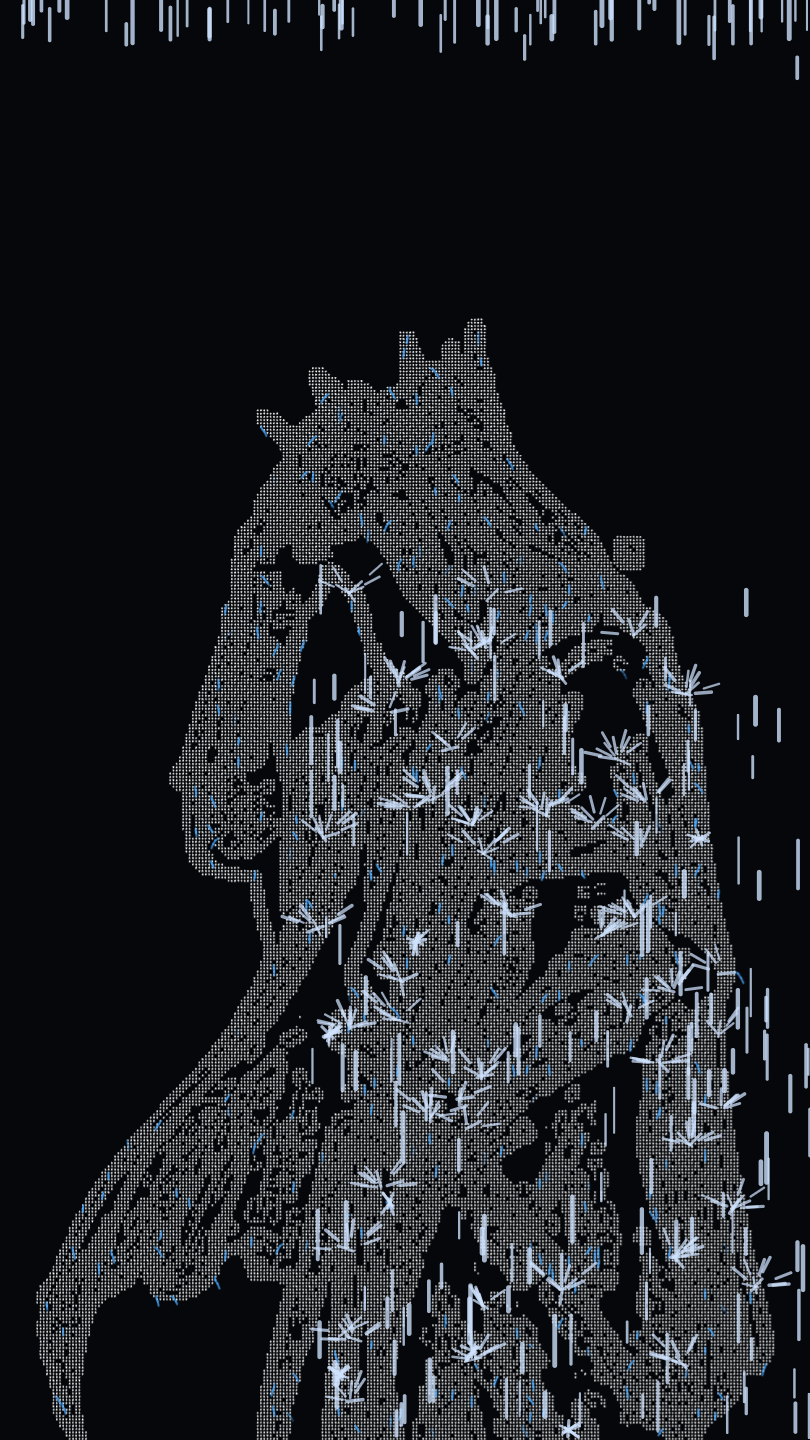
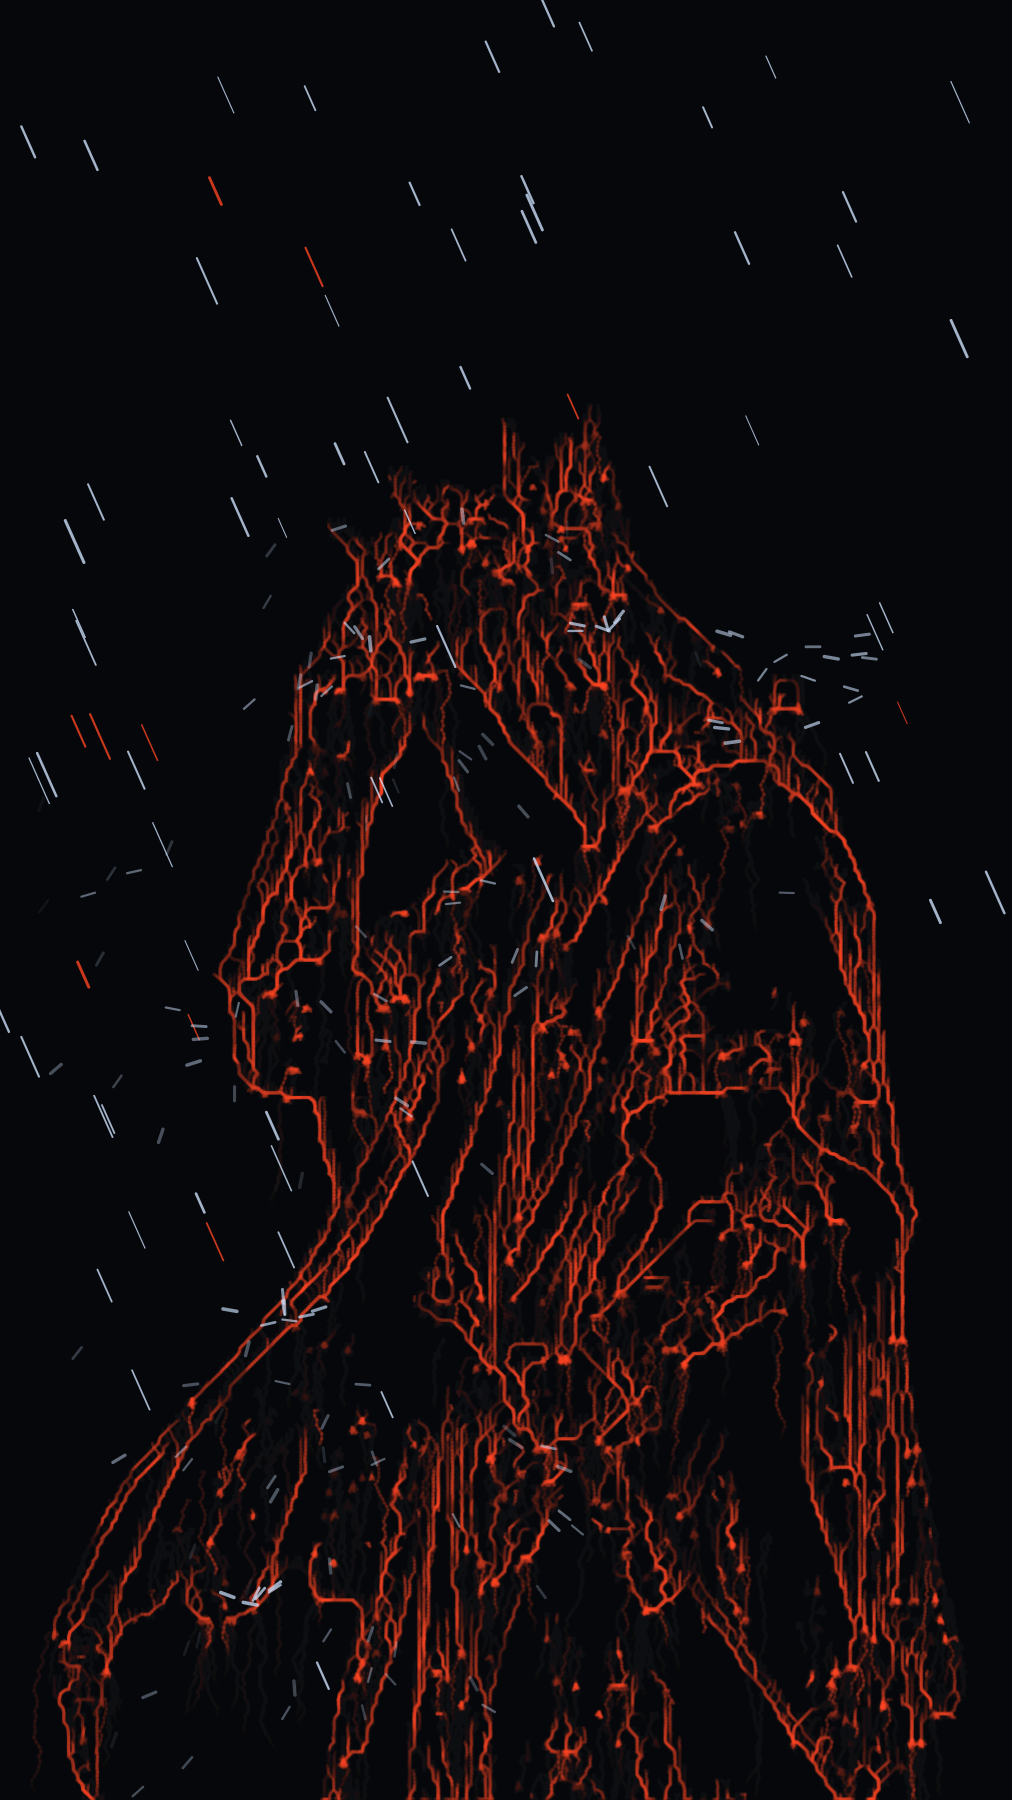
Neue Default-Einstellungen (roter Fluss-Look) + Hero-Screenshot aktualisiert

diff --git a/index.html b/index.html
@@ -184,37 +184,37 @@
 
         <label title="Auflösung der Kantenberechnung. Fein = mehr Detail, grob = nur große Formen.">
           <span class="head">Rasterfeinheit<span class="val" data-for="rasterFeinheit"></span></span>
-          <input type="range" id="rasterFeinheit" min="40" max="600" value="250" data-edge />
+          <input type="range" id="rasterFeinheit" min="40" max="600" value="214" data-edge />
         </label>
 
         <label title="Ab welcher Kontraststärke etwas als Kante zählt. Hoch = nur Silhouette, niedrig = viele Details.">
           <span class="head">Schwellwert<span class="val" data-for="schwellwert"></span></span>
-          <input type="range" id="schwellwert" min="0" max="255" value="60" data-edge />
+          <input type="range" id="schwellwert" min="0" max="255" value="188" data-edge />
         </label>
 
         <label title="Weichzeichnung vor der Erkennung. Höher = weniger Rauschen, ruhigere Kanten.">
           <span class="head">Weichzeichnung<span class="val" data-for="weichzeichnung"></span></span>
-          <input type="range" id="weichzeichnung" min="0" max="5" step="0.1" value="1" data-edge />
+          <input type="range" id="weichzeichnung" min="0" max="5" step="0.1" value="0.6" data-edge />
         </label>
 
         <label title="Verstärkt oder dämpft die erkannte Kantenstärke (Gain). Holt feine Kanten hervor.">
           <span class="head">Kanten-Verstärkung<span class="val" data-for="verstaerkung"></span></span>
-          <input type="range" id="verstaerkung" min="0.2" max="5" step="0.1" value="1" data-edge />
+          <input type="range" id="verstaerkung" min="0.2" max="5" step="0.1" value="0.7" data-edge />
         </label>
 
         <label title="Größe der Rasterpunkte/-vierecke als Anteil der Zelle. 100 % = Vierecke füllen die Zelle lückenlos (Mosaik).">
           <span class="head">Rastergröße (%)<span class="val" data-for="rasterGroesse"></span></span>
-          <input type="range" id="rasterGroesse" min="0" max="100" value="60" data-edge />
+          <input type="range" id="rasterGroesse" min="0" max="100" value="88" data-edge />
         </label>
 
         <label class="row" title="Rasterform: aus = runde Punkte, an = Vierecke. Beide ohne Kontur (nur Füllung).">
           Vierecke
-          <input type="checkbox" id="rasterViereck" data-edge />
+          <input type="checkbox" id="rasterViereck" checked data-edge />
         </label>
 
         <label class="row" title="An = jede Zelle bekommt eine leicht zufällige Größe (körniger, „random“ Look). Aus = alle Formen exakt gleich groß.">
           Zufällige Größe
-          <input type="checkbox" id="rasterRandom" data-edge />
+          <input type="checkbox" id="rasterRandom" checked data-edge />
         </label>
 
         <label title="Transparenz der Kantenlinien. Niedrig = zart, hoch = kräftig.">
@@ -252,7 +252,7 @@
           <input type="color" id="farbeBg" value="#05070a" data-edge />
         </label>
       </details>
-      <input type="checkbox" id="zeigeKanten" class="eye-box" checked />
+      <input type="checkbox" id="zeigeKanten" class="eye-box" />
       <label class="eye" for="zeigeKanten" title="Kanten ein-/ausblenden"></label>
     </div>
 
@@ -262,15 +262,15 @@
 
         <label title="Wie viele Tropfen gleichzeitig auf dem Bildschirm sind (Dichte des Regens).">
           <span class="head">Menge<span class="val" data-for="regenMenge"></span></span>
-          <input type="range" id="regenMenge" min="0" max="1000" value="250" />
+          <input type="range" id="regenMenge" min="0" max="1000" value="75" />
         </label>
 
         <label title="Bereich der Tropfen-Dicke: jeder Tropfen bekommt zufällig eine Dicke zwischen Min und Max.">
           <span class="head">Tropfendicke<span class="val" data-for="dickeMin dickeMax"></span></span>
           <div class="dualslider">
             <div class="fill"></div>
-            <input type="range" id="dickeMin" min="0.5" max="8" step="0.5" value="1" />
-            <input type="range" id="dickeMax" min="0.5" max="8" step="0.5" value="2.5" />
+            <input type="range" id="dickeMin" min="0.5" max="8" step="0.5" value="0.5" />
+            <input type="range" id="dickeMax" min="0.5" max="8" step="0.5" value="1.5" />
           </div>
         </label>
 
@@ -295,7 +295,7 @@
 
         <label title="Neigung der Regenstreifen (in Grad). Alle Streifen kommen parallel aus derselben Richtung — unabhängig von der Geschwindigkeit.">
           <span class="head">Neigung<span class="val" data-for="neigung"></span></span>
-          <input type="range" id="neigung" min="-60" max="60" value="0" />
+          <input type="range" id="neigung" min="-60" max="60" value="24" />
         </label>
 
         <label title="Transparenz der Tropfen. Niedrig = zart, hoch = kräftig.">
@@ -310,12 +310,12 @@
 
         <label title="Wahrscheinlichkeit, dass ein Tropfen die Highlight-Farbe bekommt statt der Regenfarbe.">
           <span class="head">Highlight-Anteil (%)<span class="val" data-for="highlightWkt"></span></span>
-          <input type="range" id="highlightWkt" min="0" max="100" value="0" />
+          <input type="range" id="highlightWkt" min="0" max="100" value="16" />
         </label>
 
         <label class="row" title="Farbe der Highlight-Tropfen.">
           Highlight-Farbe
-          <input type="color" id="farbeHighlight" value="#ffd166" />
+          <input type="color" id="farbeHighlight" value="#ff4422" />
         </label>
       </details>
       <input type="checkbox" id="zeigeRegen" class="eye-box" checked />
@@ -335,8 +335,8 @@
           <span class="head">Splash-Anzahl<span class="val" data-for="splashMin splashMax"></span></span>
           <div class="dualslider">
             <div class="fill"></div>
-            <input type="range" id="splashMin" min="1" max="30" value="5" />
-            <input type="range" id="splashMax" min="1" max="30" value="10" />
+            <input type="range" id="splashMin" min="1" max="30" value="3" />
+            <input type="range" id="splashMax" min="1" max="30" value="8" />
           </div>
         </label>
 
@@ -347,17 +347,17 @@
 
         <label title="Länge der Spritzer-Streifen.">
           <span class="head">Splash-Länge<span class="val" data-for="splashLaenge"></span></span>
-          <input type="range" id="splashLaenge" min="1" max="30" value="8" />
+          <input type="range" id="splashLaenge" min="1" max="30" value="7" />
         </label>
 
         <label title="Wie weit die Spritzer seitlich/nach oben wegspritzen (Fontänen-Breite).">
           <span class="head">Splash-Weite<span class="val" data-for="splashWeite"></span></span>
-          <input type="range" id="splashWeite" min="1" max="20" step="0.5" value="6" />
+          <input type="range" id="splashWeite" min="1" max="20" step="0.5" value="5.5" />
         </label>
 
         <label title="Wie lange die Spritzer sichtbar bleiben, bevor sie ausblenden (in Frames).">
           <span class="head">Splash-Lebensdauer<span class="val" data-for="splashLeben"></span></span>
-          <input type="range" id="splashLeben" min="10" max="120" value="45" />
+          <input type="range" id="splashLeben" min="10" max="120" value="39" />
         </label>
       </details>
       <input type="checkbox" id="zeigeAbprallen" class="eye-box" checked />
@@ -370,7 +370,7 @@
 
         <label title="Wie viele Fließ-Teilchen an den Kanten entlanglaufen. 0 = Effekt aus.">
           <span class="head">Fluss-Menge<span class="val" data-for="flussMenge"></span></span>
-          <input type="range" id="flussMenge" min="0" max="5000" value="300" />
+          <input type="range" id="flussMenge" min="0" max="5000" value="1181" />
         </label>
 
         <label title="Grundtempo der Fließ-Teilchen (Pixel pro Frame).">
@@ -380,20 +380,20 @@
 
         <label title="1 = folgt den Konturen sklavisch, 0 = Kanten sind nur Startpunkte, alles fällt gerade runter.">
           <span class="head">Kontur-Treue<span class="val" data-for="konturTreue"></span></span>
-          <input type="range" id="konturTreue" min="0" max="1" step="0.05" value="0.8" />
+          <input type="range" id="konturTreue" min="0" max="1" step="0.05" value="1" />
         </label>
 
         <label title="Wie träge die Teilchen umlenken. 0 = sofortige Richtungswechsel, hoch = weite weiche Bögen (dürfen dabei kurz von der Kante abdriften).">
           <span class="head">Trägheit (Bögen)<span class="val" data-for="traegheit"></span></span>
-          <input type="range" id="traegheit" min="0" max="0.95" step="0.05" value="0.7" />
+          <input type="range" id="traegheit" min="0" max="0.95" step="0.05" value="0.1" />
         </label>
 
         <label title="Bereich der Lebensdauer in Frames: jedes Teilchen bekommt zufällig einen Wert zwischen Min und Max, dann startet es woanders neu.">
           <span class="head">Lebensdauer<span class="val" data-for="lebensdauerMin lebensdauerMax"></span></span>
           <div class="dualslider">
             <div class="fill"></div>
-            <input type="range" id="lebensdauerMin" min="5" max="600" value="60" />
-            <input type="range" id="lebensdauerMax" min="5" max="600" value="180" />
+            <input type="range" id="lebensdauerMin" min="5" max="600" value="5" />
+            <input type="range" id="lebensdauerMax" min="5" max="600" value="41" />
           </div>
         </label>
 
@@ -404,17 +404,17 @@
 
         <label title="Strichstärke der Fließspuren.">
           <span class="head">Fluss-Dicke<span class="val" data-for="flussDicke"></span></span>
-          <input type="range" id="flussDicke" min="0.5" max="4" step="0.5" value="1" />
+          <input type="range" id="flussDicke" min="0.5" max="4" step="0.5" value="1.5" />
         </label>
 
         <label title="Transparenz der Fließspuren. Niedrig = zartes Schimmern.">
           <span class="head">Fluss-Deckkraft<span class="val" data-for="flussDeckkraft"></span></span>
-          <input type="range" id="flussDeckkraft" min="0" max="255" value="180" />
+          <input type="range" id="flussDeckkraft" min="0" max="255" value="77" />
         </label>
 
         <label title="Seitliches Zittern/Wandern der Teilchen. 0 = ruhige Bahnen.">
           <span class="head">Wirbel<span class="val" data-for="flussWirbel"></span></span>
-          <input type="range" id="flussWirbel" min="0" max="3" step="0.1" value="0.5" />
+          <input type="range" id="flussWirbel" min="0" max="3" step="0.1" value="2.1" />
         </label>
 
         <label title="Richtung (in Grad), in die frei fließende Teilchen getrieben werden, wenn sie auf keiner Kante mehr sind. 0 = senkrecht runter.">
@@ -424,7 +424,7 @@
 
         <label class="row" title="Farbe der Fließspuren. Tipp: kräftige Farbe wählen, damit sie sich von der Kantenfarbe abhebt.">
           Flussfarbe
-          <input type="color" id="farbeFluss" value="#48a8ff" />
+          <input type="color" id="farbeFluss" value="#ff4422" />
         </label>
       </details>
       <input type="checkbox" id="zeigeFliessen" class="eye-box" checked />

diff --git a/README.md b/README.md
@@ -6,7 +6,7 @@ Die Regentropfen prallen an den Konturen ab, spritzen als kleine Fontänen weg u
 
 ### ▶ [Hier direkt im Browser ausprobieren](https://feliperude.github.io/PixelRain/) — nichts zu installieren.
 
-| Regen & Spritzer | Mosaik-Look | Fließendes Wasser |
+| Standard-Look | Mosaik-Look | Fließendes Wasser |
 | :---: | :---: | :---: |
 | ![Regen prallt an den Kanten ab](screenshots/default-rain.png) | ![Raster aus Vierecken mit zufälliger Größe](screenshots/mosaic.png) | ![Wasser fließt an den Konturen entlang](screenshots/flow.png) |
 
